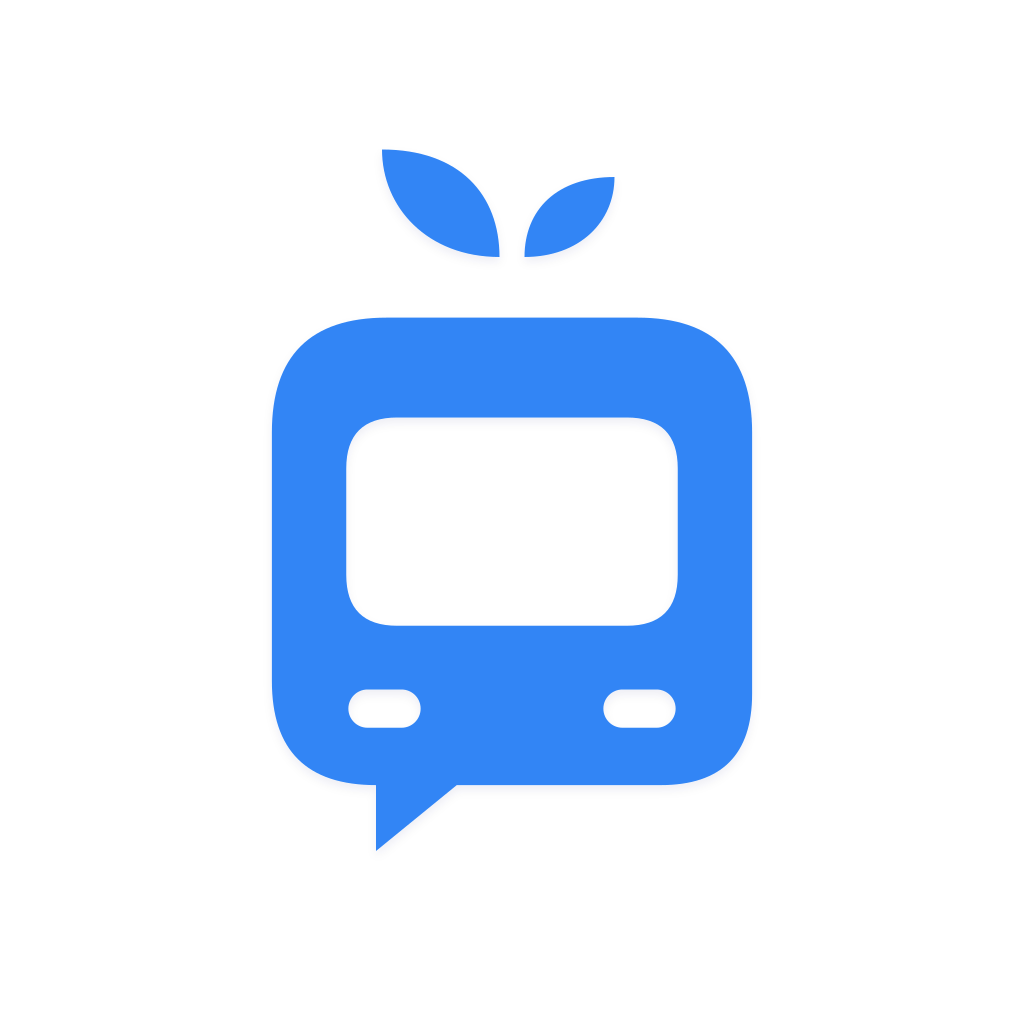
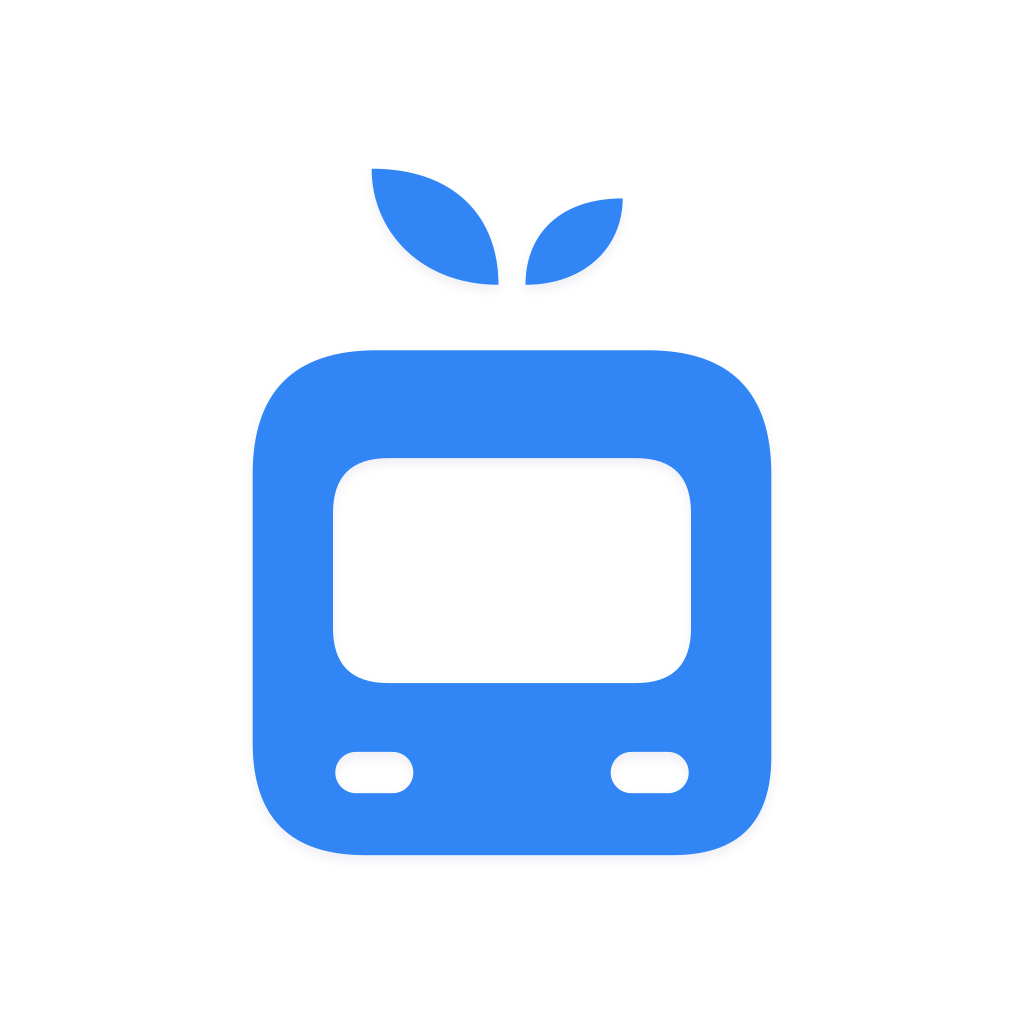
🎨 art: 타라고 브랜드 아이콘 확대와 말풍선 꼬리 정리
확정한 타라고 심볼을 유지하고 앱 아이콘·로고·Android 전경의 여백과 크기를 맞춘다. 아래 삼각형을 제거한 최종 자산과 브랜드 기록을 반영한다.

iPhone 18 Pro 시뮬레이터 재빌드 후 홈 화면과 알림 배너의 새 아이콘을 확인했다.

Changed region(s): [[0.2188, 0.375, 0.7812, 0.8438], [0.3438, 0.125, 0.625, 0.2812], [0.2812, 0.3125, 0.7188, 0.375]]

diff --git a/assets/brand/README.md b/assets/brand/README.md
@@ -13,3 +13,5 @@
 시작 화면은 흰 바탕과 파란 심볼을 사용한다. iOS·Android 네이티브 이미지 갱신에는 앱 재빌드가 필요하다.
 
 2026-11-01: 사용자 요청에 따라 승인 심볼을 중심 기준 1.25배 확대했다. 원본 도형·비율은 유지하고 흰 여백만 줄였으며, 앱 아이콘·투명 심볼·워드마크에 같은 확대를 적용했다.
+
+2026-11-01 후속: 사용자 요청으로 아래 말풍선 삼각형만 제거하고, 기존 대비 약 8% 확대(1.25→1.35)했다. 삼각형 제거 후 심볼의 시각적 중심을 다시 맞췄다. 앱·시작 화면·로고·Android 전경에 동일하게 반영했으며 보관된 원본 시안은 유지한다.
